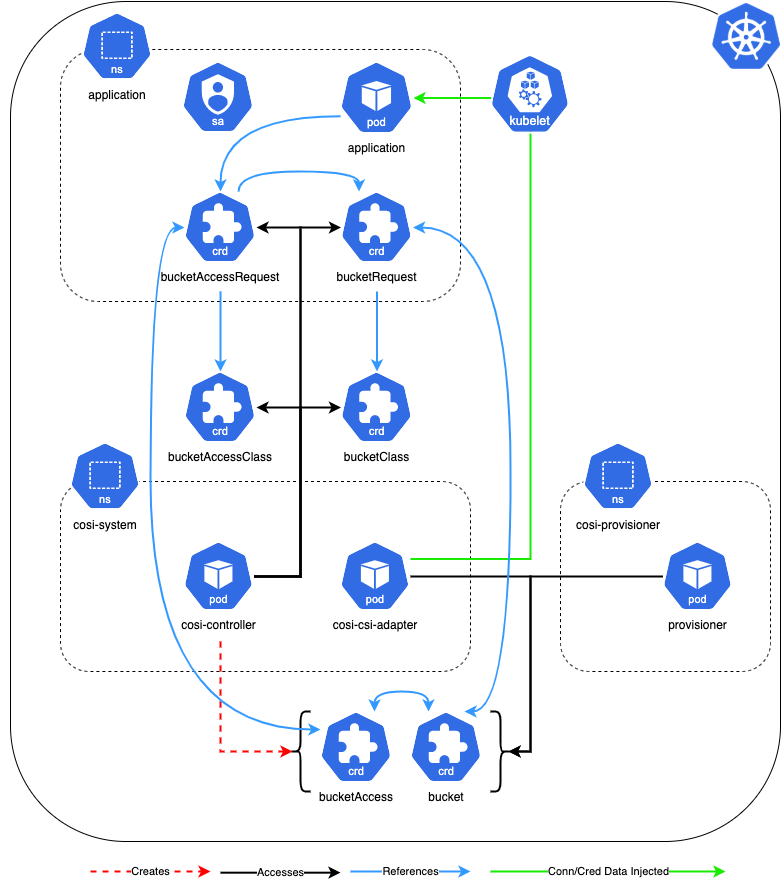
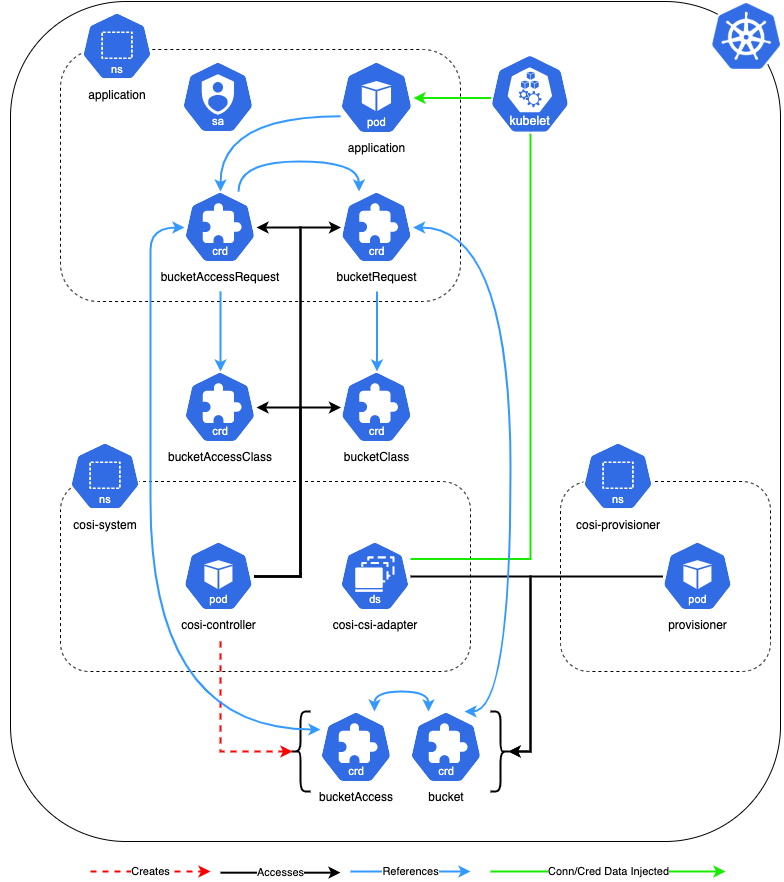
Cosi arch (#16)
* change CSI driver Pod icon to DS

* drop backRef list from Bucket, add ns list to Class

diff --git a/keps/sig-storage/20191125-bucket-provisioning.md b/keps/sig-storage/20191125-bucket-provisioning.md
@@ -1,5 +1,5 @@
 ---
-title: Object Bucket Provisioning
+mmrrtitle: Object Bucket Provisioning
 authors:
   - "@jeffvance"
   - "@copejon"
@@ -37,7 +37,13 @@ status: provisional
       - [BucketAccessRequest](#bucketaccessrequest)
       - [BucketAccess](#bucketaccess)
       - [BucketAccessClass](#bucketaccessclass)
-  - [Provisioner Secrets](#provisioner-secrets)
+  - [Architecture](#architecture)
+    - [API Relationships](#api-relationships)
+    - [Controller Architecture](#controller-architecture)
+    - [Greenfield](#greenfield)
+      - [Sharing Dynamically Created Buckets](#sharing-dynamically-created-buckets)
+    - [Brownfield](#brownfield)
+    - [Provisioner Secrets](#provisioner-secrets)
 <!-- /toc -->
 
 # Summary
@@ -118,7 +124,7 @@ spec:
   bucketPrefix: [4]
   bucketClassName: [5]
   secretName: [6]
-  bucket: [7]
+  bucketName: [7]
 status:
   phase: [9]
   conditions: 
@@ -130,7 +136,7 @@ status:
 1. `bucketPrefix`: (Optional) prefix prepended to a randomly generated bucket name, eg. “yosemite-photos-". If empty no prefix is prepended.
 1. `bucketClassName`: Name of the target BucketClass.
 1. `secretName`: (optional) Secret in the BucketRequest's namespace storing credentials to be used by a workload for bucket access.
-1. `bucket`: Name of the Bucket instance representing the desired storage instance endpoint.  Set by the COSI Controller for new Buckets.  Specified by the user when connecting to existing buckets.
+1. `bucketName`: Name of the Bucket instance representing the desired storage instance endpoint.  Set by the COSI Controller for new Buckets.  Specified by the user when connecting to existing buckets.
 1. `phase`: 
    - *Pending*: The controller has detected the new `Bucket` and begun provisioning operations
    - *Bound*: Provisioning operations have completed and the `Bucket` has been bound to a `Bucket`.
@@ -151,7 +157,7 @@ Metadata:
 spec:
   provisioner: [4]
   releasePolicy: [5]
-  anonymousAccessMode: [6]
+	anonymousAccessMode: [6]
   bucketClassName: [7]
   permittedNamespaces: [8]
     - name:
@@ -175,10 +181,6 @@ spec:
 status:
   message: [14]
   phase: [15]
-  boundBucketRequests: [16]
-  - name:
-    namespace:
-    uuid:
   conditions:
 ```
 
@@ -189,9 +191,15 @@ status:
 1. `releasePolicy`: Prescribes outcome of a Delete events. **Note:** In Brownfield cases, backing storage instance is Retained, and never deleted.
    - _Delete_:  the bucket and its contents are destroyed.
    - _Retain_:  the bucket and its data are preserved with only abstracting Kubernetes being destroyed.
-1. `anonymousAccessMode`: Declares the level of access given to credentials provisioned through this class.  If empty, drivers may set defaults.
+1. `anonymousAccessMode`:  ACL specifying *uncredentialed* access to the Bucket.  This is applicable for cases where the storage instance or objects are intended to be publicly readable and/or writable.  If `BucketClass.anonymousAccessMode` is set, the value is copied here.  Accepted values:
+   - `private`: Default, disallow uncredentialed access to the storage instance.
+   - `ro`: Read only, uncredentialed users are permitted *read* operations for objects within the storage instance.
+   - `rw`: Read/Write, uncredentialed users are permitted *read and write* operations for objects within the storage instance. 
+   - `wo`: Write, uncredentialed users are permitted *write* operations for objects within the storage instance. 
 1. `bucketClassName`: Name of the associated BucketClass.
-1. permittedNamespaces: An array of namespaces, identified by a name and uuid, from which  BucketRequests can bind to a Bucket (primarily applicable in Brownfield).  Provided to allow admins a layer of cluster-layer access control.  Does **not** reflect or alter the backing storage instances' ACLs or IAM policies.
+1. `permittedNamespaces`: An array of namespaces, identified by a name and uuid, from which  BucketRequests are allowed to bind to the Bucket.  Provided to allow admins a layer of cluster-layer access control.  Does **not** reflect or alter the backing storage instances' ACLs or IAM policies.
+   - In Greenfield, the originating BuckerRequest’s namespace must be specified at time of Bucket generation.
+   - In Brownfield, this list is defined by the admin.
 1. `protocol`: The protocol the application will use to access the storage instance.
    - `type`: Specifies the protocol targeted by this Bucket instance.  One of:
      - `azureBlob`: data required to target a provisioned azure container and/or storage account.
@@ -204,7 +212,6 @@ status:
    - _Released_: the Bucket has been deleted, signalling that the Bucket is ready for garbage collection.
    - _Failed_: error and all retries have been exhausted.
    - _Retrying_: set when a driver or Kubernetes error is encountered during provisioning operations indicating a retry loop.
-- `boundBucketRequests`: a pseudo-synchronous array of BucketRequests currently bound to this Bucket.
 
 #### BucketClass
 
@@ -218,7 +225,10 @@ metadata:
 provisioner: [1]
 isDefaultBucketClass: [2]
 supportedProtocols: {"azureblob", "gcs", "s3", ... } [3]
-accessMode: {"ro", "wo", "rw"} [4]
+anonymousAccessMode: {"ro", "wo", "rw"} [4]
+additionalPermittedNamespaces: [5]
+- name:
+  uuid: 
 releasePolicy: {"Delete", "Retain"} [6]
 parameters: [7]
 ```
@@ -226,7 +236,8 @@ parameters: [7]
 1. `provisioner`: The name of the driver. If supplied the driver container and sidecar container are expected to be deployed. If omitted the `secretRef` is required for static provisioning.
 1. `isDefaultBucketClass`: boolean. When true, signals that the controller should attempt to match `Bucket`’s without a defined `BucketClass` to this class, accounting for the `Bucket`’s requested protocol.  Multiple default classes for the same protocol will produce undefined behaviour.
 1. `supportedProtocols`: protocols the associated object store supports.  Applied when matching Bucket to BucketClasses. Admins may specify all protocols a provisioner supports.  `Bucket.spec.protocol` will be checked against the array prior to provisioning.
-1. `accessMode`: (Optional) ACL setting specifying the default accessibility of .
+1. `anonymousAccessMode`: (Optional) ACL specifying *uncredentialed* access to the Bucket.  This is applicable for cases where the storage instance or objects are intended to be publicly readable and/or writable.
+1. `additionalPermittedNamespaces`: A list of namespace *in addition to the originating namespace* that will be allowed access to this Bucket.  A nil and empty string value are equivalent and must not append any namespace to `Bucket.spec.permittedNamespaces` list.
 1. `releasePolicy`: Prescribes outcome of a Delete events. **Note:** In Brownfield and Static cases, *Retain* is mandated. 
    - `Delete`:  the bucket and its contents are destroyed
    - `Retain`:  the bucket and its data are preserved with only abstracting Kubernetes being destroyed
@@ -407,7 +418,3 @@ cosi.io/provisioner-secret-namespace:
   cosi.io/provisioner-secret-name: "${bucket.name}"
   cosi.io/provisioner-secret-namespace: "${bucket.namespace}"
   ```
-
-
-
-1. 
